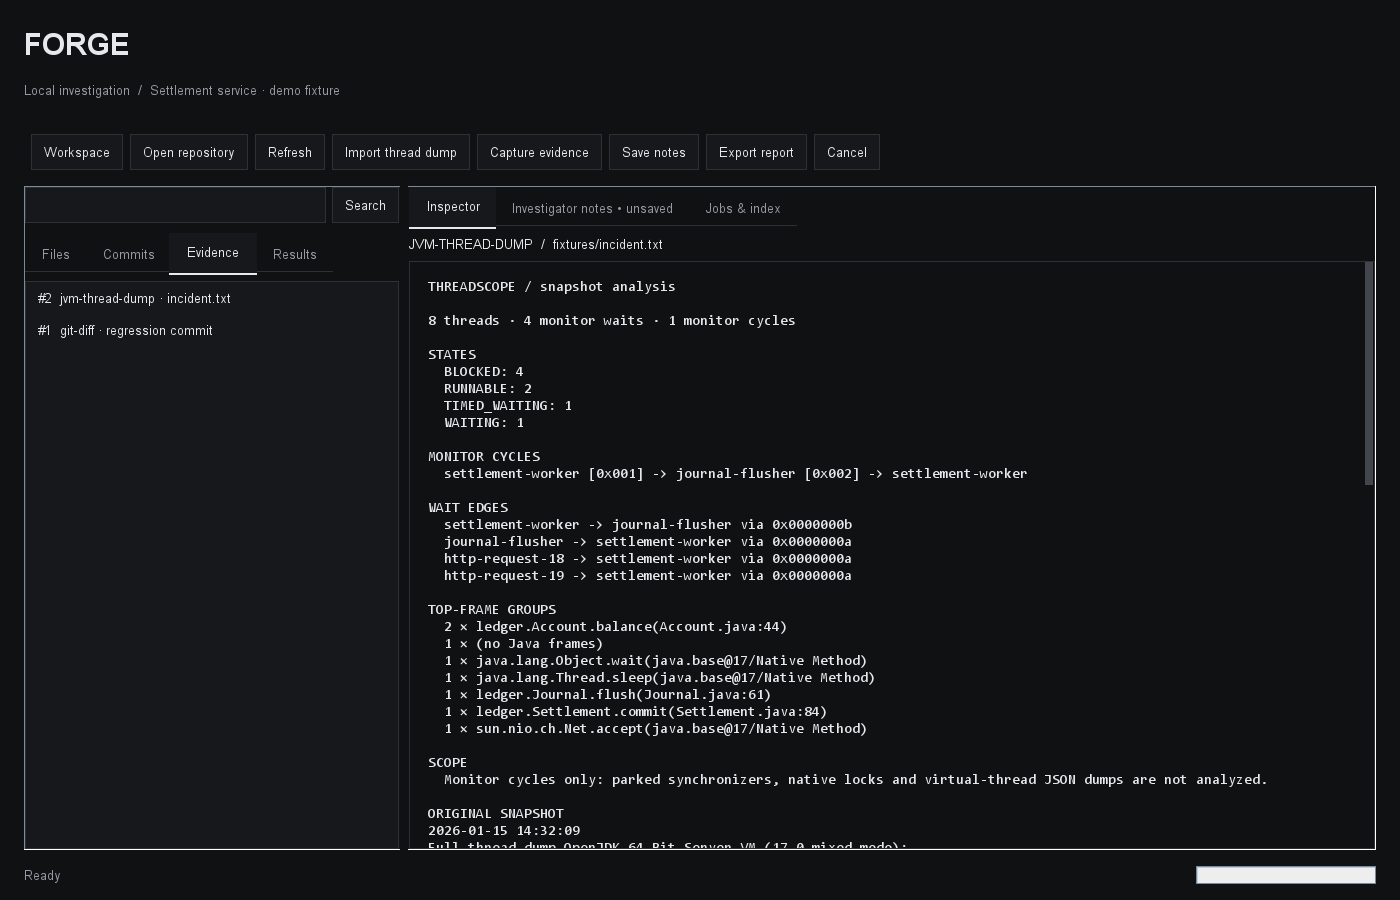
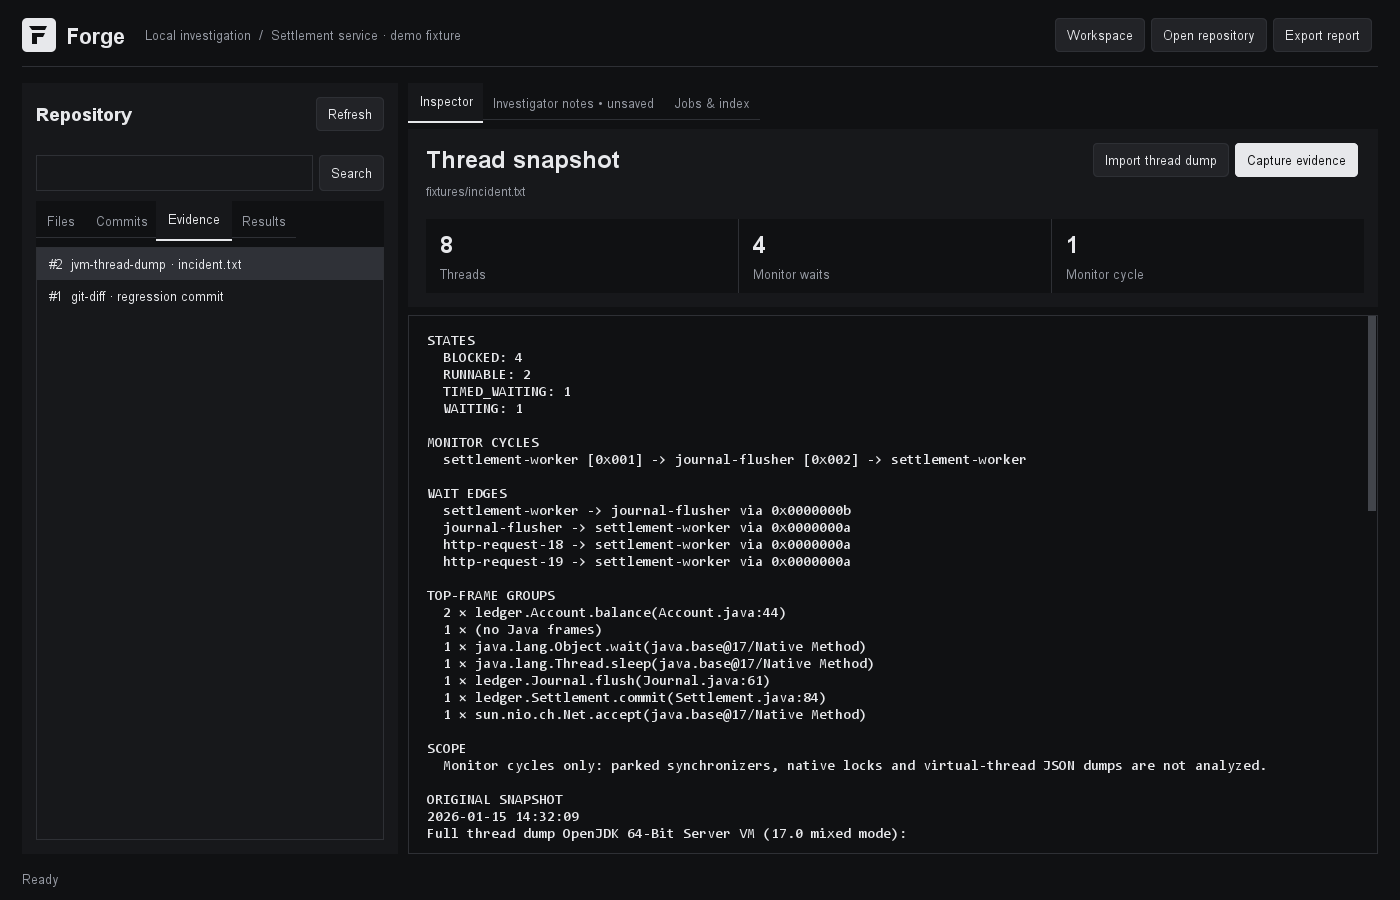
Redesign the desktop around repository navigation and the inspector

diff --git a/desktop/src/forge/Main.java b/desktop/src/forge/Main.java
@@ -41,6 +41,10 @@ public final class Main {
     private final List<Map<String, Object>> resultData = new ArrayList<>();
     private final JTextArea jobs = area(false);
     private final JProgressBar progressBar = new JProgressBar();
+    private final JPanel metrics = new JPanel(new GridLayout(1, 3, 1, 0));
+    private final JLabel documentTitle = new JLabel("Open a repository to begin");
+    private final JButton cancel = new JButton("Cancel");
+    private final JButton capture = new JButton("Capture evidence");
     private SwingWorker<?, ?> task;
     private volatile boolean busy;
     private volatile boolean cancelled;
@@ -63,40 +67,29 @@ public final class Main {
     }
     private Main() {
         frame.setDefaultCloseOperation(WindowConstants.DO_NOTHING_ON_CLOSE);
-        frame.setSize(1400, 900);
-        frame.setMinimumSize(new Dimension(1100, 700));
+        Rectangle screen = GraphicsEnvironment.getLocalGraphicsEnvironment().getMaximumWindowBounds();
+        frame.setMinimumSize(new Dimension(Math.min(880, screen.width), Math.min(580, screen.height)));
+        frame.setSize(Math.min(1320, screen.width), Math.min(840, screen.height));
         frame.setLocationRelativeTo(null);
         JPanel root = new JPanel(new BorderLayout(0, 16));
-        root.setBorder(new EmptyBorder(24, 24, 16, 24));
+        root.setBorder(new EmptyBorder(18, 22, 12, 22));
         root.setBackground(BG);
-        JPanel top = new JPanel(new BorderLayout(0, 12));
+        JPanel top = new JPanel(new BorderLayout(20, 0));
         top.setOpaque(false);
-        JLabel brand = new JLabel("FORGE");
-        brand.setFont(new Font(Font.SANS_SERIF, Font.BOLD, 30));
-        brand.setForeground(TEXT);
+        top.setBorder(BorderFactory.createCompoundBorder(
+            BorderFactory.createMatteBorder(0, 0, 1, 0, Theme.BORDER), new EmptyBorder(0, 0, 14, 0)));
+        JLabel brand = new JLabel("Forge", new Theme.Mark(), SwingConstants.LEFT);
+        brand.setFont(brand.getFont().deriveFont(Font.BOLD, 22f));
+        brand.setIconTextGap(10);
+        top.add(brand, BorderLayout.WEST);
         context.setForeground(MUTED);
-        JPanel heading = new JPanel(new GridLayout(2, 1, 0, 8));
-        heading.setOpaque(false);
-        heading.add(brand);
-        heading.add(context);
-        top.add(heading, BorderLayout.NORTH);
-        JPanel actions = new JPanel(new FlowLayout(FlowLayout.LEFT, 7, 0));
+        top.add(context, BorderLayout.CENTER);
+        JPanel actions = new JPanel(new FlowLayout(FlowLayout.RIGHT, 6, 0));
         actions.setOpaque(false);
         button(actions, "Workspace", this::chooseWorkspace);
         button(actions, "Open repository", this::chooseRepository);
-        button(actions, "Refresh", this::refresh);
-        button(actions, "Import thread dump", this::importDump);
-        button(actions, "Capture evidence", this::capture);
-        button(actions, "Save notes", this::saveNotes);
         button(actions, "Export report", this::export);
-        button(actions, "Cancel", () -> {
-            if (busy) {
-                cancelled = true;
-                bridge.cancel();
-                status.setText("Cancelling. Existing saved evidence is preserved.");
-            }
-        });
-        top.add(actions, BorderLayout.SOUTH);
+        top.add(actions, BorderLayout.EAST);
         root.add(top, BorderLayout.NORTH);
         navigation.addTab("Files", new JScrollPane(files));
         navigation.addTab("Commits", new JScrollPane(commits));
@@ -115,26 +108,78 @@ public final class Main {
         JButton search = new JButton("Search");
         search.addActionListener(e -> search());
         find.add(search, BorderLayout.EAST);
-        left.add(find, BorderLayout.NORTH);
+        JPanel explorer = new JPanel(new BorderLayout(0, 12));
+        JLabel explorerTitle = new JLabel("Repository");
+        explorerTitle.setFont(explorerTitle.getFont().deriveFont(Font.BOLD, 18f));
+        JPanel explorerHeading = new JPanel(new BorderLayout());
+        explorerHeading.add(explorerTitle, BorderLayout.WEST);
+        JButton refresh = new JButton("Refresh");
+        refresh.addActionListener(e -> refresh());
+        explorerHeading.add(refresh, BorderLayout.EAST);
+        explorer.add(explorerHeading, BorderLayout.NORTH);
+        explorer.add(find, BorderLayout.SOUTH);
+        left.setOpaque(true);
+        left.setBackground(PANEL);
+        left.setBorder(new EmptyBorder(14, 14, 14, 14));
+        left.setMinimumSize(new Dimension(270, 180));
+        left.setPreferredSize(new Dimension(325, 400));
+        left.add(explorer, BorderLayout.NORTH);
         left.add(navigation, BorderLayout.CENTER);
         JPanel display = new JPanel(new BorderLayout(0, 8));
         display.setOpaque(false);
-        source.setForeground(ACCENT);
-        display.add(source, BorderLayout.NORTH);
+        source.setForeground(MUTED);
+        source.setFont(source.getFont().deriveFont(12f));
+        documentTitle.setFont(documentTitle.getFont().deriveFont(Font.BOLD, 24f));
+        JPanel identity = new JPanel(new GridLayout(2, 1));
+        identity.add(documentTitle);
+        identity.add(source);
+        JPanel tools = new JPanel(new FlowLayout(FlowLayout.RIGHT, 6, 0));
+        button(tools, "Import thread dump", this::importDump);
+        capture.putClientProperty("primary", true);
+        capture.addActionListener(e -> capture());
+        capture.setEnabled(false);
+        tools.add(capture);
+        JPanel sheet = new JPanel(new BorderLayout(10, 12));
+        sheet.setBorder(new EmptyBorder(14, 18, 14, 14));
+        sheet.add(identity, BorderLayout.CENTER);
+        sheet.add(tools, BorderLayout.EAST);
+        metrics.setVisible(false);
+        metrics.setBackground(Theme.BORDER);
+        sheet.add(metrics, BorderLayout.SOUTH);
+        display.add(sheet, BorderLayout.NORTH);
         display.add(new JScrollPane(viewer), BorderLayout.CENTER);
         content.addTab("Inspector", display);
-        content.addTab("Investigator notes", new JScrollPane(notes));
+        JPanel notebook = new JPanel(new BorderLayout(0, 8));
+        JPanel noteActions = new JPanel(new FlowLayout(FlowLayout.RIGHT, 0, 0));
+        button(noteActions, "Save notes", this::saveNotes);
+        notebook.add(noteActions, BorderLayout.NORTH);
+        notebook.add(new JScrollPane(notes), BorderLayout.CENTER);
+        content.addTab("Investigator notes", notebook);
         JSplitPane split = new JSplitPane(JSplitPane.HORIZONTAL_SPLIT, left, content);
-        split.setResizeWeight(.28);
+        content.setMinimumSize(new Dimension(320, 200));
+        split.setResizeWeight(.20);
         split.setDividerSize(10);
         split.setBorder(null);
+        split.setDividerLocation(325);
         root.add(split, BorderLayout.CENTER);
         status.setForeground(MUTED);
         JPanel footer = new JPanel(new BorderLayout(16, 0));
         footer.setOpaque(false);
         progressBar.setPreferredSize(new Dimension(180, 6));
         footer.add(status, BorderLayout.CENTER);
-        footer.add(progressBar, BorderLayout.EAST);
+        JPanel activity = new JPanel(new FlowLayout(FlowLayout.RIGHT, 8, 0));
+        activity.setOpaque(false);
+        progressBar.setForeground(TEXT);
+        progressBar.setVisible(false);
+        activity.add(progressBar);
+        cancel.setVisible(false);
+        cancel.addActionListener(e -> {
+            cancelled = true;
+            bridge.cancel();
+            status.setText("Cancelling current job…");
+        });
+        activity.add(cancel);
+        footer.add(activity, BorderLayout.EAST);
         root.add(footer, BorderLayout.SOUTH);
         JPanel jobPanel = new JPanel(new BorderLayout(0, 8));
         JPanel indexActions = new JPanel(new FlowLayout(FlowLayout.LEFT, 7, 0));
@@ -262,6 +307,8 @@ public final class Main {
         }
         status.setText(label + " …");
         busy = true;
+        cancel.setVisible(true);
+        progressBar.setVisible(true);
         long started = System.nanoTime();
         appendJob("RUNNING  " + label);
         progressBar.setIndeterminate(true);
@@ -297,6 +344,8 @@ public final class Main {
                 } finally {
                     if (task == this) {
                         busy = false;
+                        cancel.setVisible(false);
+                        progressBar.setVisible(false);
                         progressBar.setIndeterminate(false);
                         progressBar.setValue(0);
                     }
@@ -372,7 +421,10 @@ public final class Main {
                 activeSource = "";
                 activeText = "";
                 viewer.setText("");
-                source.setText("EVIDENCE VIEWER");
+                source.setText("Choose Open repository or import a thread dump.");
+                documentTitle.setText("Start an investigation");
+                metrics.setVisible(false);
+                capture.setEnabled(false);
                 context.setText("Workspace: " + workspace);
         if(r.get("listing") instanceof Map<?,?> listing){
             @SuppressWarnings("unchecked") Map<String, Object> data = (Map<String, Object>)listing;
@@ -452,13 +504,47 @@ public final class Main {
                 "Working tree changes (tracked files):\n\n" +
                     (str(r, "status").isBlank() ? "Clean" : str(r, "status")));
     }
+    private static final java.util.regex.Pattern SNAPSHOT_COUNTS = java.util.regex.Pattern.compile(
+        "THREADSCOPE / snapshot analysis\n\n([0-9]+) threads · ([0-9]+) monitor waits · ([0-9]+) monitor cycles\n\n");
     private void inspect(String kind, String origin, String text) {
         activeKind = kind;
         activeSource = origin;
         activeText = text;
-        source.setText(kind.toUpperCase(Locale.ROOT) + "  /  " + origin);
+        String title = switch (kind) {
+            case "jvm-thread-dump" -> "Thread snapshot";
+            case "git-status" -> "Working tree";
+            case "git-diff" -> "Commit patch";
+            case "index-changes" -> "Index changes";
+            case "search" -> "Search results";
+            case "source" -> "Source file";
+            default -> kind;
+        };
+        documentTitle.setText(title);
+        source.setText(origin);
+        source.setToolTipText(origin);
+        capture.setEnabled(true);
+        metrics.removeAll();
+        var counts = SNAPSHOT_COUNTS.matcher(text);
+        boolean summary = kind.equals("jvm-thread-dump") && counts.lookingAt();
+        if (summary) {
+            for (int i = 1; i <= 3; i++) {
+                JPanel metric = new JPanel(new BorderLayout(0, 3));
+                metric.setBorder(new EmptyBorder(10, 14, 10, 10));
+                metric.setBackground(BG);
+                JLabel value = new JLabel(counts.group(i));
+                value.setFont(value.getFont().deriveFont(Font.BOLD, 23f));
+                String noun = List.of("Thread", "Monitor wait", "Monitor cycle").get(i - 1);
+                JLabel label = new JLabel(counts.group(i).equals("1") ? noun : noun + "s");
+                label.setForeground(MUTED);
+                metric.add(value, BorderLayout.NORTH);
+                metric.add(label, BorderLayout.SOUTH);
+                metrics.add(metric);
+            }
+        }
+        metrics.setVisible(summary);
+        metrics.revalidate();
         viewer.getHighlighter().removeAllHighlights();
-        viewer.setText(text);
+        viewer.setText(summary ? text.substring(counts.end()) : text);
         viewer.setCaretPosition(0);
         content.setSelectedIndex(0);
     }
@@ -588,6 +674,7 @@ public final class Main {
                     app.evidenceModel.addElement("#2  jvm-thread-dump · incident.txt");
                     app.evidenceModel.addElement("#1  git-diff · regression commit");
                     app.navigation.setSelectedIndex(2);
+                    app.evidence.setSelectedIndex(0);
                     app.notes.setText(
                         "Two workers acquire Account and Journal in opposite order.\nThe "
                         + "imported snapshot shows a two-thread monitor cycle.\nNext step: enforce "

diff --git a/desktop/src/forge/Theme.java b/desktop/src/forge/Theme.java
@@ -14,6 +14,22 @@ final class Theme {
     static final Color INK = new Color(231, 232, 235);
     static final Color MUTED = new Color(149, 153, 162);
 
+    static final class Mark implements Icon {
+        public int getIconWidth() { return 34; }
+        public int getIconHeight() { return 34; }
+        public void paintIcon(Component c, Graphics graphics, int x, int y) {
+            Graphics2D g = (Graphics2D)graphics.create();
+            g.translate(x, y);
+            g.setRenderingHint(RenderingHints.KEY_ANTIALIASING, RenderingHints.VALUE_ANTIALIAS_ON);
+            g.setColor(INK);
+            g.fillRoundRect(0, 0, 34, 34, 10, 10);
+            g.setColor(BACKGROUND);
+            g.fillPolygon(new int[]{7, 25, 23, 10}, new int[]{8, 8, 12, 12}, 4);
+            g.fillPolygon(new int[]{10, 23, 21, 15, 15, 10}, new int[]{15, 15, 19, 19, 26, 26}, 6);
+            g.dispose();
+        }
+    }
+
     static void install() {
         System.setProperty("awt.useSystemAAFontSettings", "on");
         System.setProperty("swing.aatext", "true");
@@ -34,21 +50,28 @@ final class Theme {
 
     static void apply(Component component) {
         if (component instanceof JButton button) {
-            button.setUI(new BasicButtonUI());
-            button.setBackground(SURFACE);
-            button.setForeground(INK);
-            button.setBorder(BorderFactory.createCompoundBorder(
-                BorderFactory.createLineBorder(BORDER), new EmptyBorder(8, 12, 8, 12)));
-            button.addFocusListener(new java.awt.event.FocusAdapter() {
-                public void focusGained(java.awt.event.FocusEvent e) {
-                    button.setBorder(BorderFactory.createCompoundBorder(
-                        BorderFactory.createLineBorder(MUTED), new EmptyBorder(8, 12, 8, 12)));
-                }
-                public void focusLost(java.awt.event.FocusEvent e) {
-                    button.setBorder(BorderFactory.createCompoundBorder(
-                        BorderFactory.createLineBorder(BORDER), new EmptyBorder(8, 12, 8, 12)));
+            boolean primary = Boolean.TRUE.equals(button.getClientProperty("primary"));
+            button.setUI(new BasicButtonUI() {
+                public void paint(Graphics graphics, JComponent component) {
+                    Graphics2D g = (Graphics2D)graphics.create();
+                    g.setRenderingHint(RenderingHints.KEY_ANTIALIASING, RenderingHints.VALUE_ANTIALIAS_ON);
+                    boolean hover = button.getModel().isRollover();
+                    boolean pressed = button.getModel().isPressed();
+                    Color fill = primary && button.isEnabled() ? (pressed ? MUTED : INK)
+                        : pressed ? BORDER : hover ? new Color(48, 50, 55) : new Color(34, 35, 39);
+                    g.setColor(fill);
+                    g.fillRoundRect(0, 0, button.getWidth(), button.getHeight(), 9, 9);
+                    g.setColor(button.isFocusOwner() ? MUTED : primary && button.isEnabled() ? fill : BORDER);
+                    g.drawRoundRect(0, 0, button.getWidth()-1, button.getHeight()-1, 9, 9);
+                    g.dispose();
+                    super.paint(graphics, component);
                 }
             });
+            button.setRolloverEnabled(true);
+            button.setOpaque(false);
+            button.setContentAreaFilled(false);
+            button.setForeground(primary ? BACKGROUND : INK);
+            button.setBorder(new EmptyBorder(8, 12, 8, 12));
         }
         if (component instanceof JTabbedPane tabs) {
             tabs.setUI(new Tabs());
@@ -68,6 +91,7 @@ final class Theme {
                 }
             });
         }
+        if (component instanceof JSplitPane split) split.setBorder(null);
         if (component instanceof JScrollPane scroll) {
             scroll.setBorder(BorderFactory.createLineBorder(BORDER));
             scroll.getViewport().setBackground(BACKGROUND);
@@ -96,7 +120,7 @@ final class Theme {
     private static final class Tabs extends BasicTabbedPaneUI {
         protected void installDefaults() {
             super.installDefaults();
-            tabInsets = new Insets(10, 15, 10, 15);
+            tabInsets = new Insets(9, 9, 9, 9);
             tabAreaInsets = new Insets(0, 0, 8, 0);
             contentBorderInsets = new Insets(0, 0, 0, 0);
         }

diff --git a/scripts/package.py b/scripts/package.py
@@ -7,7 +7,7 @@ import zipfile
 
 root=Path(__file__).resolve().parents[1]
 parser=argparse.ArgumentParser(description=__doc__)
-parser.add_argument('--version',default='0.2.0')
+parser.add_argument('--version',default='0.2.1')
 args=parser.parse_args()
 if not re.fullmatch(r'\d+\.\d+\.\d+(?:-[a-z0-9.]+)?',args.version):
     parser.error('version must be a semantic version without path characters')

diff --git a/CHANGELOG.md b/CHANGELOG.md
@@ -1,5 +1,11 @@
 # Changelog
 
+## 0.2.1
+
+- Redesign the desktop around the repository sidebar and document inspector.
+- Show thread, monitor wait, and cycle counts above the snapshot report.
+- Put capture and notebook actions beside their content and show cancellation during active jobs.
+
 ## 0.2.0
 
 - Reuse unchanged source files across searches, refreshes, and restarts.
